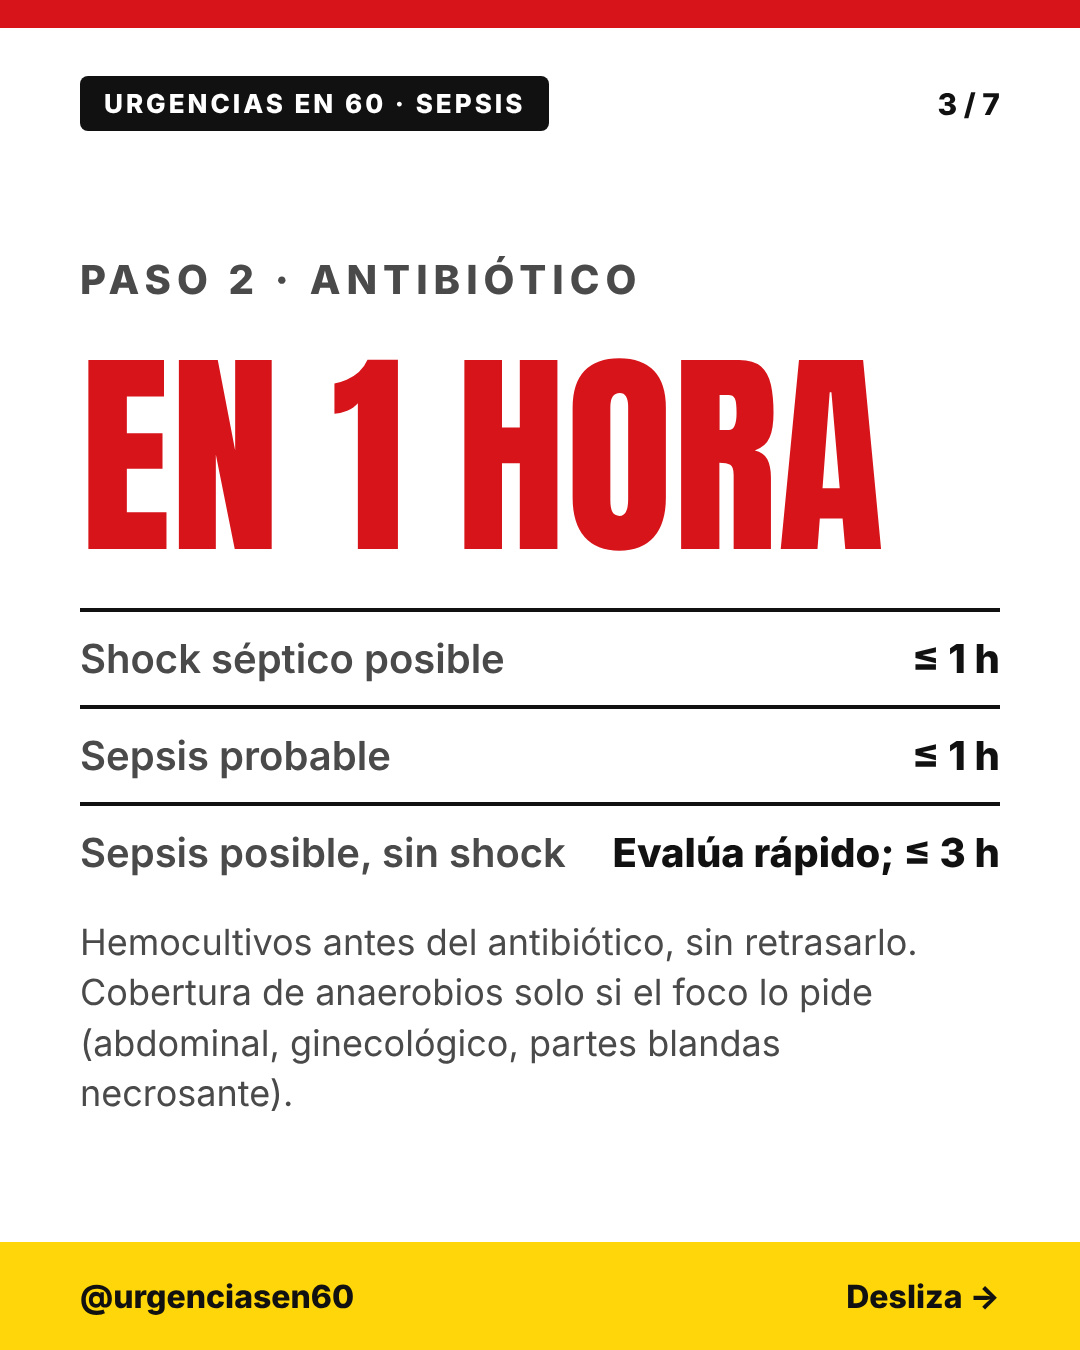
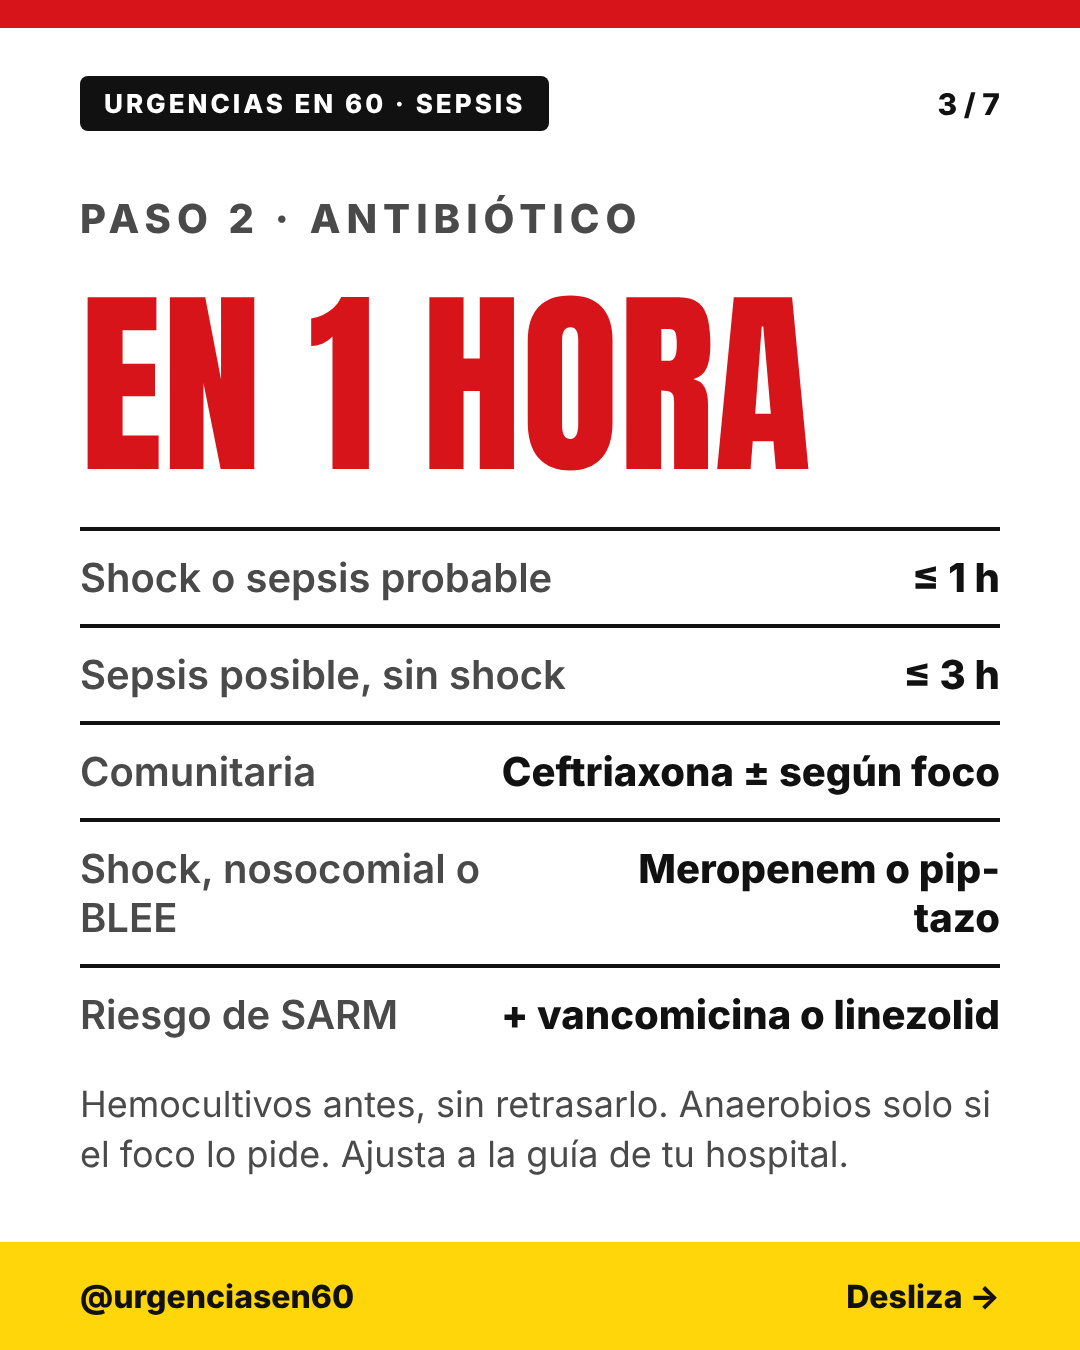
Ficha 06 sepsis: dosis de noradrenalina, vasopresina e hidrocortisona; ejemplos de antibiótico
Claude-Session: https://claude.ai/code/session_019S5PG2ppqwuZwMv2DxeA6e

Changed region(s): [[0.0611, 0.1244, 0.9472, 0.8711]]

diff --git a/tools/sepsis.py b/tools/sepsis.py
@@ -6,10 +6,10 @@ rows=lambda *x: '<div style="display:flex;flex-direction:column;gap:22px">'+"".j
 P=[
 page(1,N,T,big("SEPSIS",250,nowrap=True)+big(f'LA PRIMERA HORA <span style="color:{R}">MANDA</span>',132)+'<div style="font-size:40px;font-weight:600;line-height:1.3;max-width:820px">Qué hacer y en qué orden según la guía internacional de 2026. Con ficha final para guardar.</div>',cover=True),
 page(2,N,T,kicker("PASO 1 · SOSPECHA")+big("CRIBA CON UNA ESCALA",112)+rows(line("NEWS, NEWS2, MEWS o SIRS",True),line("El qSOFA, por sí solo, no sirve como cribado"),line("Busca hipoperfusión: hipotensión, lactato elevado, relleno capilar lento"))+note("La sepsis y el shock séptico son emergencias: el tratamiento empieza de inmediato.")),
-page(3,N,T,kicker("PASO 2 · ANTIBIÓTICO")+big("EN 1 HORA",220,R,True)+rows(row("Shock séptico posible","≤ 1 h"),row("Sepsis probable","≤ 1 h"),row("Sepsis posible, sin shock","Evalúa rápido; ≤ 3 h"))+note("Hemocultivos antes del antibiótico, sin retrasarlo. Cobertura de anaerobios solo si el foco lo pide (abdominal, ginecológico, partes blandas necrosante).")),
+page(3,N,T,kicker("PASO 2 · ANTIBIÓTICO")+big("EN 1 HORA",200,R,True)+rows(row("Shock o sepsis probable","≤ 1 h"),row("Sepsis posible, sin shock","≤ 3 h"),row("Comunitaria","Ceftriaxona ± según foco"),row("Shock, nosocomial o BLEE","Meropenem o pip-tazo"),row("Riesgo de SARM","+ vancomicina o linezolid"))+note("Hemocultivos antes, sin retrasarlo. Anaerobios solo si el foco lo pide. Ajusta a la guía de tu hospital.")),
 page(4,N,T,kicker("PASO 3 · FLUIDOS")+big("30 ML/KG",230,R,True)+'<div style="font-size:48px;font-weight:800;line-height:1.2">De cristaloide, en las 3 primeras horas, si hay hipoperfusión o shock</div>'+rows(row("Tipo","Balanceado (Ringer lactato) antes que salino 0,9 %"),row("Si IMC &gt; 30","Calcula con peso ajustado o ideal"))+note("Es un mínimo orientativo: reevalúa e individualiza con medidas dinámicas.")),
-page(5,N,T,kicker("PASO 4 · VASOPRESOR")+big("NORADRENALINA",140,R,True)+'<div style="font-size:48px;font-weight:800;line-height:1.2">Empieza por vía periférica: no esperes a la vía central</div>'+rows(row("Objetivo inicial","PAM 65 mmHg"),row("En ≥ 65 años","PAM 60–65 mmHg"))+note("Si no basta, se añade vasopresina. Corticoide intravenoso (hidrocortisona) en el shock que sigue necesitando vasopresor.")),
+page(5,N,T,kicker("PASO 4 · VASOPRESOR")+big("NORADRENALINA",140,R,True)+rows(row("Inicio","0,05–0,15 µg/kg/min"),row("Objetivo","PAM 65 (60–65 si ≥ 65 años)"),line("Por vía periférica si hace falta: no esperes a la central"),row("NA a 0,25–0,5","+ vasopresina 0,03 UI/min"),row("NA ≥ 4 h","Hidrocortisona 50 mg/6 h IV"))),
 page(6,N,T,kicker("Y NO OLVIDES")+big("CONTROLA EL FOCO",128)+rows(line("Drenar, desobstruir o retirar el dispositivo infectado cuanto antes",True),line("Desescala el antibiótico cuando llegue el antibiograma"),line("Pasada la reanimación, retira el exceso de líquido"))+note("El antibiótico sin control del foco no resuelve la sepsis.")),
-page(7,N,T,ficha_body("SEPSIS","Adulto",[("CRIBADO","NEWS2, NEWS, MEWS o SIRS. No qSOFA aislado"),("ANTIBIÓTICO","En ≤ 1 h si shock posible o sepsis probable. En ≤ 3 h si sepsis posible sin shock",True),("FLUIDOS","Cristaloide balanceado (Ringer lactato) ≥ 30 ml/kg en 3 h si hay hipoperfusión. Reevaluar"),("VASOPRESOR","Noradrenalina, por vía periférica si hace falta. PAM 65 mmHg (60–65 en ≥ 65 años)"),("SI PERSISTE","Añadir vasopresina. Corticoide IV (hidrocortisona)"),("FOCO","Hemocultivos antes del antibiótico. Control del foco precoz")],"Prescott HC, et al. Surviving Sepsis Campaign 2026. Crit Care Med 2026",size=120,fs=30),ficha="06"),
+page(7,N,T,ficha_body("SEPSIS","Adulto",[("CRIBADO","NEWS2, NEWS, MEWS o SIRS. No qSOFA aislado"),("ANTIBIÓTICO","≤ 1 h si shock o sepsis probable; ≤ 3 h si posible. Ceftriaxona; shock o BLEE: meropenem o pip-tazo; SARM: + vancomicina",True),("FLUIDOS","Cristaloide balanceado (Ringer lactato) ≥ 30 ml/kg en 3 h si hay hipoperfusión. Reevaluar"),("NORADREN.","0,05–0,15 µg/kg/min, también periférica. PAM 65 (60–65 si ≥ 65 años)"),("SI PERSISTE","NA 0,25–0,5: + vasopresina 0,03 UI/min. ≥ 4 h: hidrocortisona 50 mg/6 h IV",True),("FOCO","Hemocultivos antes del antibiótico. Control del foco precoz")],"Prescott HC, et al. Surviving Sepsis Campaign 2026. Crit Care Med 2026",size=120,fs=30),ficha="06"),
 ]
 render(P,sys.argv[1] if len(sys.argv)>1 else "out","sepsis")

diff --git a/borradores/REVISION.md b/borradores/REVISION.md
@@ -126,3 +126,4 @@ Dudas y discrepancias:
 - «pH < 7,25: valora intubación y UCI» es de GesEPOC; la ERS/ATS no fija un pH mínimo para intentar la VMNI.
 - Parámetros iniciales de VMNI (IPAP/EPAP): ninguna fuente leída los da; no se incluyen.
 - Criterios de ingreso: tabla 9 de GesEPOC (se omiten PaCO2 > 50 sin hipercapnia previa, comorbilidad y soporte domiciliario por espacio).
+- 21/11 (Eduardo): añadir dosis de hidrocortisona y noradrenalina y ejemplos de antibiótico (sin dosis). Dosis tomadas del protocolo basado en SSC 2021 (Michigan Medicine, NCBI Bookshelf NBK598311): NA inicio 0,05–0,15 µg/kg/min; vasopresina 0,03 UI/min cuando NA 0,25–0,5; hidrocortisona 50 mg/6 h si NA ≥ 4 h. Antibióticos: ejemplos genéricos [VERIFICAR con la guía antimicrobiana del HUPM (guia.implemento.es)].
